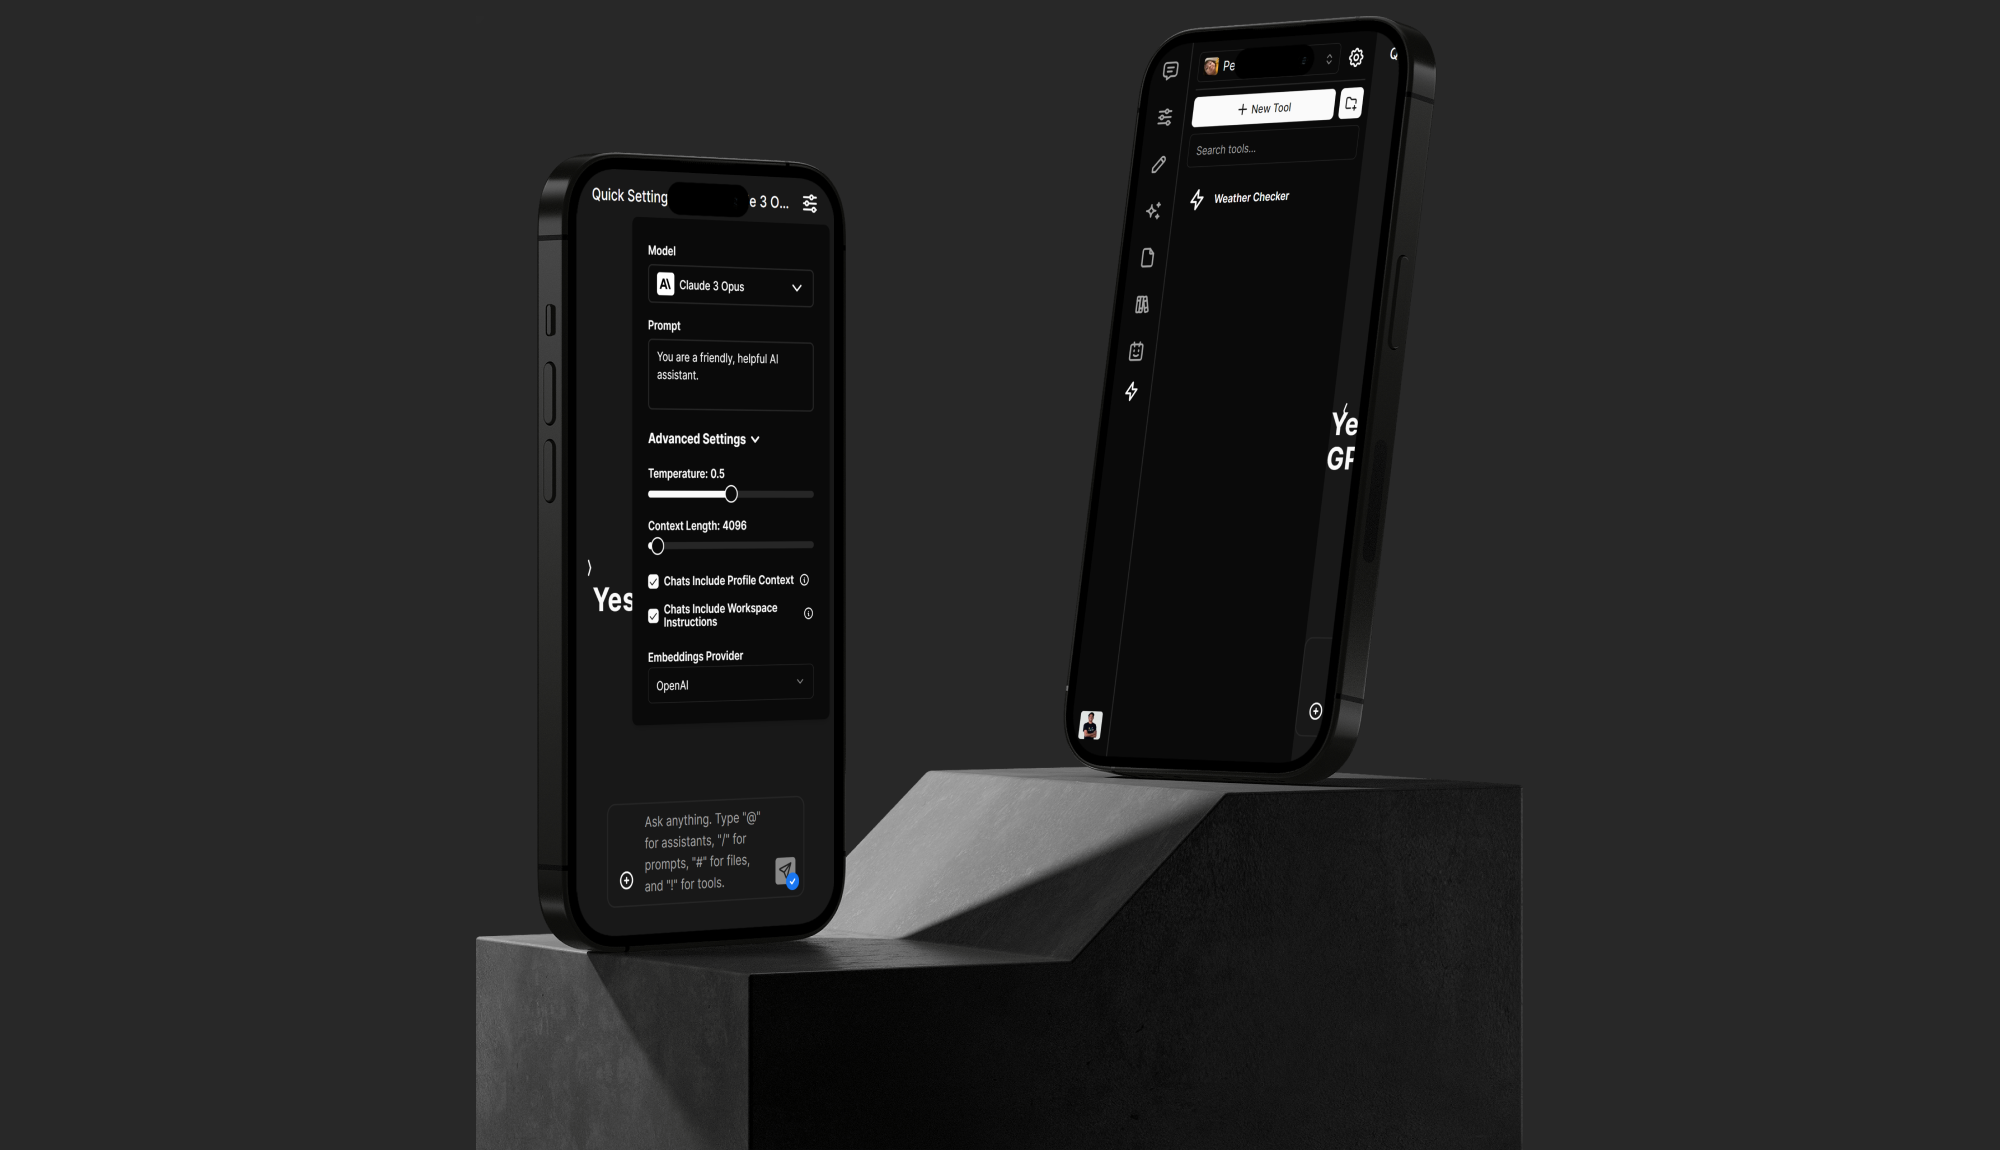
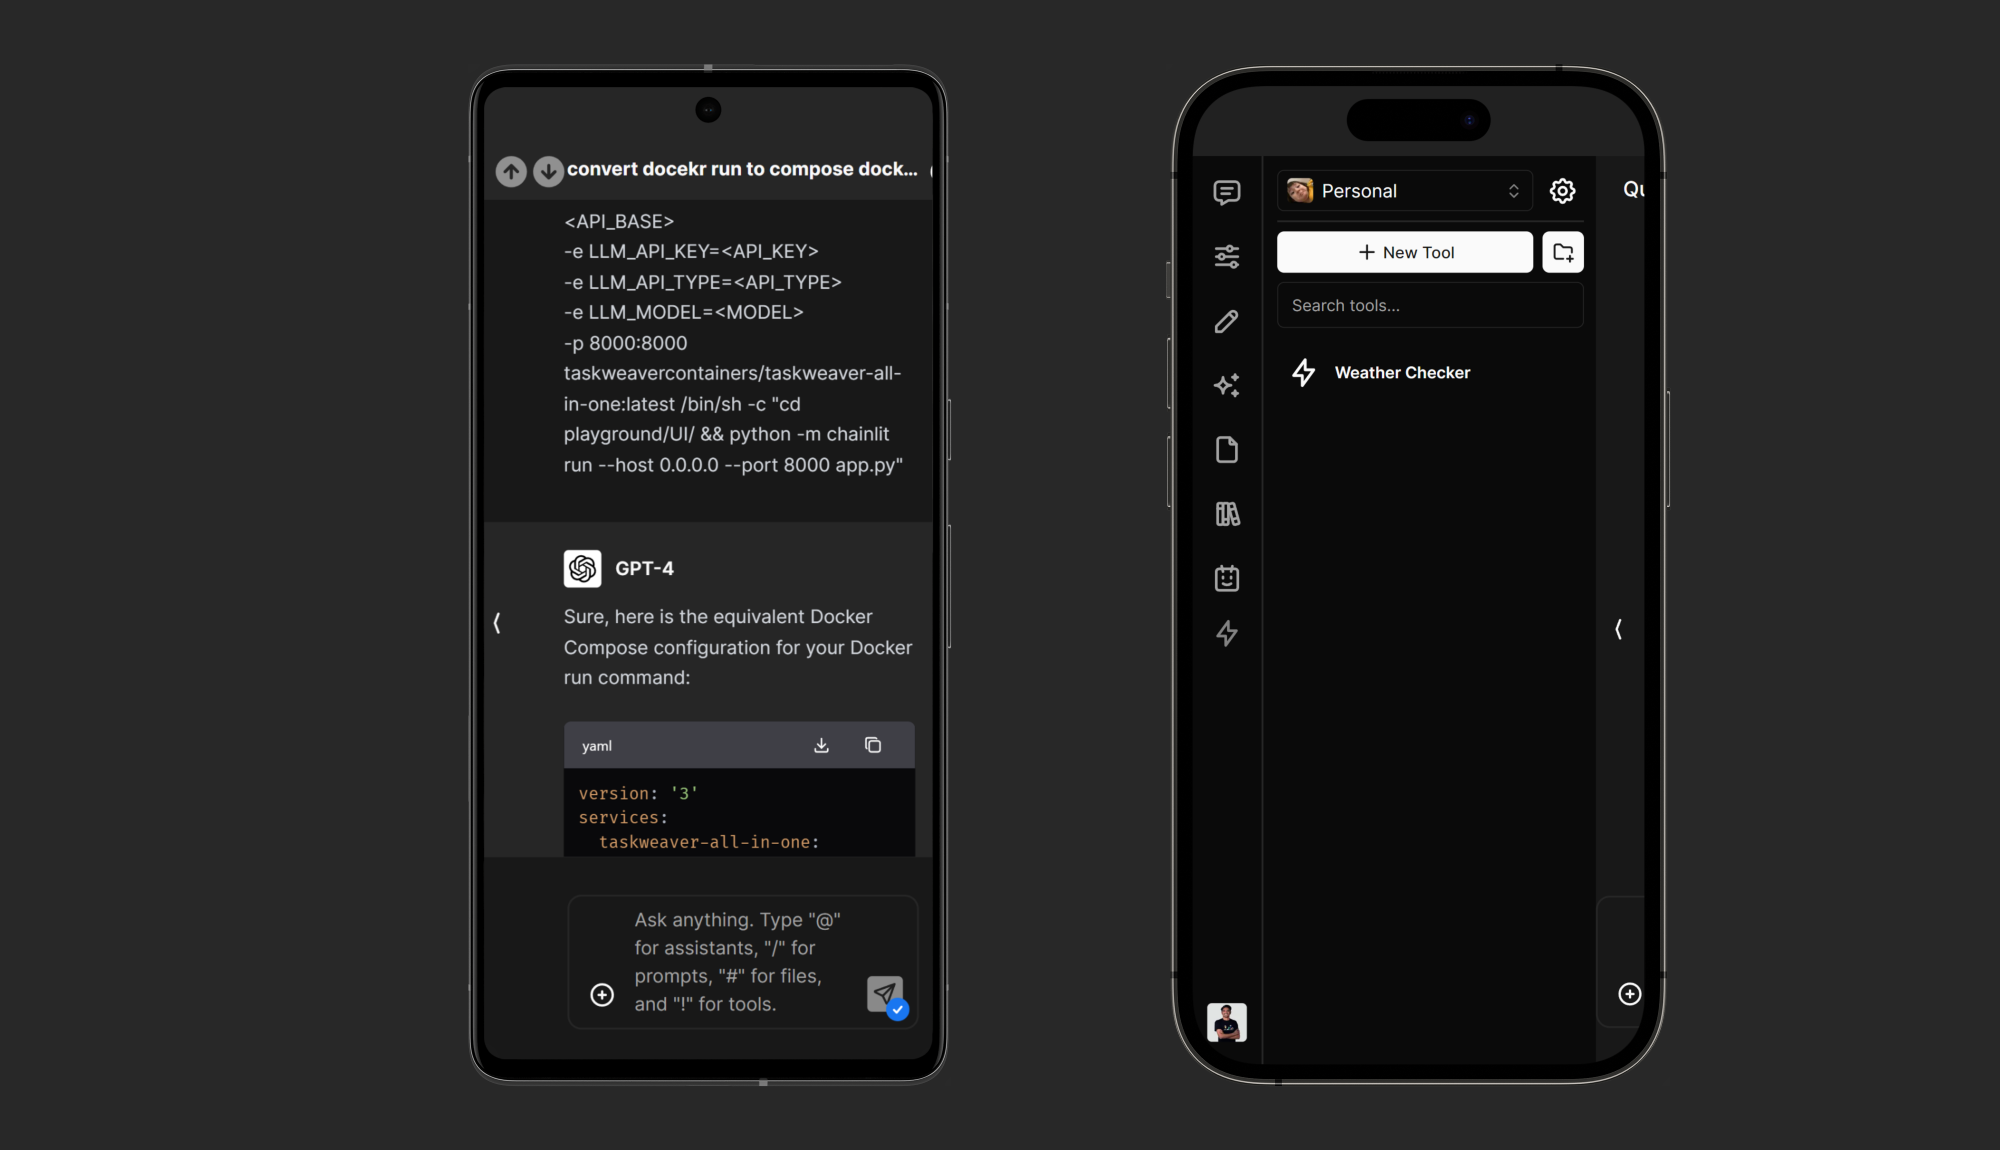
Update GPT Project
-Change Images
-Update content and add a payment link

Changed region(s): [[0.217, 0.0, 0.837, 1.0]]

diff --git a/data/projectsData.js b/data/projectsData.js
@@ -3,7 +3,7 @@ const projects = [
   
   {
     id: 'hw8b9za',
-    name: 'YesbhautikX GPT',
+    name: 'FalvorGPT',
     images: [
       '/images/hw8b9za_1.png',
       '/images/hw8b9za_2.png',
@@ -15,8 +15,8 @@ const projects = [
     client: 'AI Tools Client',
     services: ['AI APIS', 'AI Tools'],
     projectLink: 'https://works.yesbhautikx.co.in/contact', 
-    concept: `Introducing our latest creation, the <strong>YesbhautikX GPT</strong>, a game-changer in the world of AI and digital tools. This isn't just another tool, it's your gateway to a world of unlimited AI possibilities, all at an unbeatable cost.<br><br>
-Whether for personal use or business, with options for white labeling and reselling, <strong>YesbhautikX GPT</strong> is set to revolutionize how you interact with AI. Get ready to elevate your tech game!<br><br>
+    concept: `Introducing our latest creation, the <strong>FalvorGPT</strong>, a game-changer in the world of AI and digital tools. This isn't just another tool, it's your gateway to a world of unlimited AI possibilities, all at an unbeatable cost.<br><br>
+Whether for personal use or business, with options for White Labelling and reselling, <strong>FalvorGPT</strong> is set to revolutionize how you interact with AI. Get ready to elevate your tech game!<br><br>
 <p class="pricing-plan-title">Highlights:</p>
 <ul>
   <li>Classic & Minimal UI</li>
@@ -34,42 +34,43 @@ Whether for personal use or business, with options for white labeling and resell
   <li>Exclusive Multi-Device Support (of Owner only)</li>
   <li>Additional LLMs and Tools at affordable price</li>
   <li>White label for enterprise & resellers</li>
-  <li>Granted Privacy of your data</li>
+  <li>Your data privacy is assured</li>
   <li>Installable on All devices with PWA</li>
   <li>LLMs included in Individual Plan
     <ul>
-      <li>GPT versions 3.5 Turbo, 4, 4 Turbo, and 4 (0129)</li>
+      <li>GPT versions 3.5 Turbo, 4, 4 Turbo, and 4 (0125)</li>
       <li>Mixtral: Large, Small, Tiny, Medium</li>
       <li>Gemini Models: Pro, Pro-vision</li>
       <li>LLaMA Models</li>
       <li>Cohere Models</li>
-      <li>Claude, available with limited uses.</li>
-      <li>Exciting new models to be announced.</li>
+      <li>Claude, available with limited uses*</li>
+      <li>Exciting new models to be announced</li>
     </ul>
   </li>
 </ul>`,
 plan:  `<p class="pricing-plan-title">Plans:</p>
-<strong>Individual</strong><br>
+<strong>Individual</strong> - <a href="https://rzp.io/i/b0oT8YAa" class="copyright-link no-decoration-link">Get Started</a><br>
 <ul class="pricing-plan">
   <li class="check">✅ Common features</li>
-  <li class="cross">❌ “Managed” White Labeling</li>
+  <li class="cross">❌ “Managed” White Labelling</li>
   <li class="cross">❌ Multiple users</li>
   <li class="cross">❌ Reselling</li>
 </ul>
 <strong>Enterprise</strong><br>
 <ul class="pricing-plan">
   <li class="check">✅ Common features</li>
-  <li class="check">✅ “Managed” White Labeling</li>
+  <li class="check">✅ “Managed” White Labelling</li>
   <li class="check">✅ Allows for multiple users</li>
   <li class="cross">❌ Reselling</li>
 </ul>
 <strong>Reseller</strong><br>
 <ul class="pricing-plan">
   <li class="check">✅ Common features</li>
-  <li class="check">✅ “Managed” White Labeling</li>
+  <li class="check">✅ “Managed” White Labelling</li>
   <li class="check">✅ Allows for multiple users</li>
   <li class="check">✅ Reselling</li>
 </ul>
+<p>For inquiries related to Enterprise, reseller, referrals, and exclusive discounts, please <a href="http://localhost:3000/contact" class="copyright-link no-decoration-link" > contact us </a> for further information. </p>
 <div class="note">
   Note: Our White Label and Reselling plans include everything you need—servers, deployment, and LLM costs are all covered, ensuring a worry-free solution for your business needs.
 </div>`,

diff --git a/cloudinaryMiddleware.js b/cloudinaryMiddleware.js
@@ -74,6 +74,7 @@ const axios = require('axios');
 const cloudinary = require('cloudinary').v2;
 const { imageExistenceCache } = require('./cloudinaryManager');
 
+
 module.exports = async (req, res, next) => {
   let send = res.send;
   res.send = function (body) {
@@ -97,11 +98,9 @@ module.exports = async (req, res, next) => {
               console.log(`Serving local image: ${src}`);
             } else {
               const mainImage = cloudinary.url(publicId, {
-                secure: true,
-                transformation: [
-                  { fetch_format: "auto", quality: "auto" } // Example main image transformation
+                secure: true,                transformation: [
                 ]
-              });
+              })  ;
               const vectorizedPlaceholder = cloudinary.url(publicId, {
                 secure: true,
                 transformation: [
